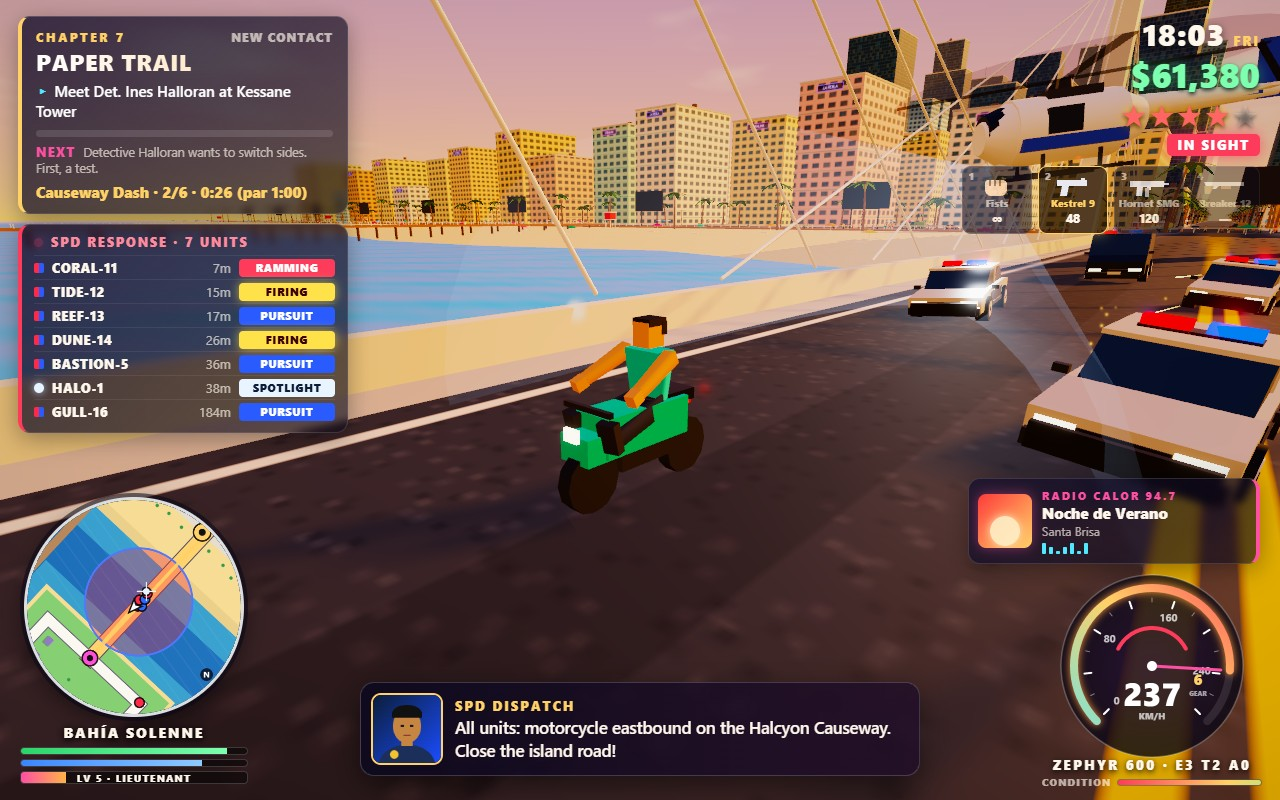
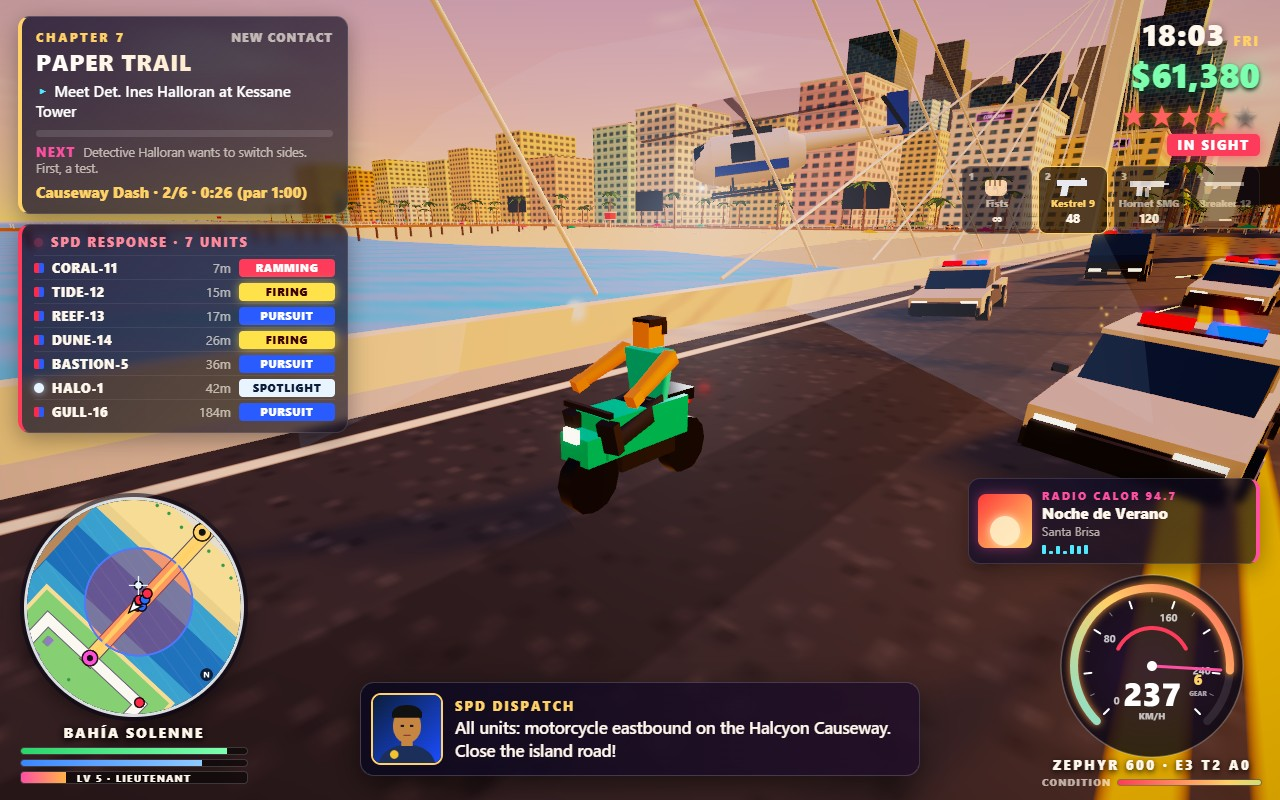
Performance: one mesh per car with masked paint, draw-distance culling for city tiles and signs
Vehicles drop from five draw calls to two (headlight beams only after dusk), far cars are
not drawn and only near ones cast shadows; clutter, posts, roof units, signs and billboards
fade out by distance. Draw calls per shot 359/549/671/406 -> 293/399/332/325; triangles
~1.04M -> 217K-291K. Causeway shot: HALO-1 in clear sky.

diff --git a/game/src/vehicles/vehicleModels.js b/game/src/vehicles/vehicleModels.js
@@ -1,7 +1,8 @@
 // Low-poly vehicle meshes. A car body is a side profile extruded across its width; the
 // greenhouse glass is a slightly wider inset profile; bumpers, grilles, mirrors, lamps and
-// wheels are boxes and cylinders. Geometry is built once per body type and shared; each car
-// only owns its paint material.
+// wheels are boxes and cylinders. Geometry is built once per body type and shared: body, glass,
+// trim, livery and wheels are one merged mesh whose `paintMask` vertices take the car's own paint
+// colour, so a car costs two draw calls (solid and lamps). Each car only owns its paint material.
 import * as THREE from 'three';
 import { MeshBuilder } from '../render/meshBuilder.js';
 
@@ -152,9 +153,50 @@ export function vehicleGeometry(def) {
     if (def.body === 'sports') trim.addBox(0, 1.0, rear + 0.2, W * 0.9, 0.06, 0.35, 0x111111); // spoiler
     addWheels(wheels, def, def.body === 'van' ? 0.42 : 0.38);
   }
-  const set = { paint: paint.build(), trim: trim.build(), lights: lights.build(), wheels: wheels.build() };
+  if (def.police && def.body === 'police') {
+    // dark doors and bonnet panel for the black-and-white livery
+    trim.addBox(0, 0.62, -0.1, def.width + 0.03, 0.42, 2.0, 0x0b1d3a);
+  }
+  const set = { solid: mergeWithMask([[paint, 1], [trim, 0], [wheels, 0]]), lights: lights.build() };
   cache.set(key, set);
   return set;
+}
+
+/** Merge builders into one geometry with a per-vertex paint mask (1 = takes the paint colour). */
+function mergeWithMask(parts) {
+  const geos = parts.map(([b]) => b.build());
+  const total = geos.reduce((n, g) => n + g.attributes.position.count, 0);
+  const out = new THREE.BufferGeometry();
+  for (const [name, size] of [['position', 3], ['normal', 3], ['uv', 2], ['color', 3]]) {
+    const arr = new Float32Array(total * size);
+    let at = 0;
+    for (const g of geos) { arr.set(g.attributes[name].array, at); at += g.attributes[name].array.length; }
+    out.setAttribute(name, new THREE.BufferAttribute(arr, size));
+  }
+  const mask = new Float32Array(total);
+  let at = 0;
+  geos.forEach((g, i) => { mask.fill(parts[i][1], at, at + g.attributes.position.count); at += g.attributes.position.count; });
+  out.setAttribute('paintMask', new THREE.BufferAttribute(mask, 1));
+  out.computeBoundingSphere();
+  for (const g of geos) g.dispose();
+  return out;
+}
+
+/** Paint material: masked vertices are tinted by `color` and glossy, the rest keep their own colour. */
+function paintMaterial(paintColor) {
+  const m = new THREE.MeshStandardMaterial({ color: paintColor, vertexColors: true, roughness: 0.28, metalness: 0.5, envMapIntensity: 1.1 });
+  m.onBeforeCompile = (shader) => {
+    shader.vertexShader = shader.vertexShader
+      .replace('#include <common>', '#include <common>\nattribute float paintMask;\nvarying float vPaintMask;')
+      .replace('#include <begin_vertex>', '#include <begin_vertex>\nvPaintMask = paintMask;');
+    shader.fragmentShader = shader.fragmentShader
+      .replace('#include <common>', '#include <common>\nvarying float vPaintMask;')
+      .replace('vec4 diffuseColor = vec4( diffuse, opacity );', 'vec4 diffuseColor = vec4( mix( vec3( 1.0 ), diffuse, vPaintMask ), opacity );')
+      .replace('float roughnessFactor = roughness;', 'float roughnessFactor = mix( 0.38, roughness, vPaintMask );')
+      .replace('float metalnessFactor = metalness;', 'float metalnessFactor = mix( 0.35, metalness, vPaintMask );');
+  };
+  m.customProgramCacheKey = () => 'vehicle-paint';
+  return m;
 }
 
 const shared = {};
@@ -173,19 +215,12 @@ export function createVehicleMesh(def, paintColor) {
   const geo = vehicleGeometry(def);
   const mats = sharedMaterials();
   const group = new THREE.Group();
-  const paintMat = new THREE.MeshStandardMaterial({ color: paintColor, roughness: 0.28, metalness: 0.55, envMapIntensity: 1.2 });
-  const body = new THREE.Mesh(geo.paint, paintMat);
-  const trim = new THREE.Mesh(geo.trim, mats.trim);
+  const paintMat = paintMaterial(paintColor);
+  const body = new THREE.Mesh(geo.solid, paintMat);
   const lights = new THREE.Mesh(geo.lights, mats.lights);
-  const wheels = new THREE.Mesh(geo.wheels, mats.wheels);
-  body.castShadow = trim.castShadow = wheels.castShadow = true;
-  group.add(body, trim, lights, wheels);
-  if (def.police && def.body === 'police') {
-    // dark doors and bonnet panel for the black-and-white livery
-    const decal = new THREE.Mesh(new THREE.BoxGeometry(def.width + 0.03, 0.42, 2.0), mats.policeDecal);
-    decal.position.set(0, 0.62, -0.1);
-    group.add(decal);
-  }
+  body.castShadow = true;
+  group.add(body, lights);
   group.userData.paint = paintMat;
+  group.userData.body = body;
   return group;
 }

diff --git a/game/src/world/streetProps.js b/game/src/world/streetProps.js
@@ -132,16 +132,16 @@ export class StreetProps {
   /** Turn everything collected into meshes. Returns the group plus materials that react to night. */
   build() {
     const group = new THREE.Group();
-    const trunk = this.trunks.buildTiles(new THREE.MeshStandardMaterial({ vertexColors: true, roughness: 0.95 }), { castShadow: true });
+    const trunk = this.trunks.buildTiles(new THREE.MeshStandardMaterial({ vertexColors: true, roughness: 0.95 }), { castShadow: true, cullDistance: 650 });
     const leafMat = new THREE.MeshStandardMaterial({
       map: palmLeafTexture(), vertexColors: true, alphaTest: 0.45, side: THREE.DoubleSide, roughness: 0.9,
     });
-    const leaves = this.leaves.buildTiles(leafMat, { castShadow: true });
-    const posts = this.posts.buildTiles(new THREE.MeshStandardMaterial({ vertexColors: true, roughness: 0.55, metalness: 0.4 }), { castShadow: true });
+    const leaves = this.leaves.buildTiles(leafMat, { castShadow: true, cullDistance: 650 });
+    const posts = this.posts.buildTiles(new THREE.MeshStandardMaterial({ vertexColors: true, roughness: 0.55, metalness: 0.4 }), { castShadow: true, cullDistance: 320 });
     this.poolMaterial = new THREE.MeshBasicMaterial({
       map: glowTexture(), vertexColors: true, transparent: true, opacity: 0, blending: THREE.AdditiveBlending, depthWrite: false,
     });
-    const pools = this.pools.buildTiles(this.poolMaterial);
+    const pools = this.pools.buildTiles(this.poolMaterial, { cullDistance: 320 });
     for (const m of pools.children) m.renderOrder = 2;
     group.add(trunk, leaves, posts, pools);
 
@@ -151,6 +151,7 @@ export class StreetProps {
       mesh.scale.set(b.width, b.h, 1);
       mesh.position.set(b.x, b.y, b.z);
       mesh.rotation.y = b.yaw;
+      mesh.userData.cullDistance = 520;
       group.add(mesh);
       (this.billboardMaterials ||= []).push(mesh.material);
     }
@@ -159,6 +160,7 @@ export class StreetProps {
       mesh.scale.set(s.width, s.width / 4, 1);
       mesh.position.set(s.x + Math.sin(s.yaw) * 0.4, s.y, s.z + Math.cos(s.yaw) * 0.4);
       mesh.rotation.y = s.yaw;
+      mesh.userData.cullDistance = 280;
       group.add(mesh);
       (this.neonMaterials ||= []).push(mesh.material);
     }
@@ -170,6 +172,7 @@ export class StreetProps {
         mesh.scale.set(s.length, s.length / 4, 1);
         mesh.position.set(s.x + Math.sin(s.yaw) * 1.4, s.y, s.z + Math.cos(s.yaw) * 1.4);
         mesh.rotation.set(0, s.yaw + Math.PI / 2 + flip, Math.PI / 2, 'YXZ');
+        mesh.userData.cullDistance = 240;
         group.add(mesh);
       }
       (this.neonMaterials ||= []).push(material);

diff --git a/game/src/world/cityGenerator.js b/game/src/world/cityGenerator.js
@@ -38,7 +38,7 @@ export class CityGenerator {
   }
 
   chunkBuilder(style, x, z) {
-    const key = `${style}:${Math.floor(x / CITY_TILE)}:${Math.floor(z / CITY_TILE)}`;
+    const key = `${style}:${Math.floor(x / (CITY_TILE * 2))}:${Math.floor(z / (CITY_TILE * 2))}`;
     if (!this.chunks.has(key)) this.chunks.set(key, { style, builder: new MeshBuilder() });
     return this.chunks.get(key).builder;
   }
@@ -350,12 +350,12 @@ export class CityGenerator {
       mesh.receiveShadow = true;
       group.add(mesh);
     }
-    group.add(this.base.buildTiles(new THREE.MeshStandardMaterial({ map: sidewalkTexture(), roughness: 0.9 }), { receiveShadow: true }));
+    group.add(this.base.buildTiles(new THREE.MeshStandardMaterial({ map: sidewalkTexture(), roughness: 0.9 }), { receiveShadow: true, cullDistance: 700 }));
     for (const [kind, builder] of Object.entries(this.lots)) {
       if (!builder.vertexCount) continue;
-      group.add(builder.buildTiles(new THREE.MeshStandardMaterial({ map: groundTexture(kind), roughness: 0.95 }), { receiveShadow: true }));
+      group.add(builder.buildTiles(new THREE.MeshStandardMaterial({ map: groundTexture(kind), roughness: 0.95 }), { receiveShadow: true, cullDistance: 450 }));
     }
-    group.add(this.detail.buildTiles(new THREE.MeshStandardMaterial({ vertexColors: true, roughness: 0.75 }), { castShadow: true, receiveShadow: true }));
+    group.add(this.detail.buildTiles(new THREE.MeshStandardMaterial({ vertexColors: true, roughness: 0.75 }), { castShadow: true, receiveShadow: true, cullDistance: 380 }));
     return group;
   }
 

diff --git a/game/src/vehicles/vehicleManager.js b/game/src/vehicles/vehicleManager.js
@@ -9,6 +9,8 @@ import { VehicleBody, stepVehicle, collideVehicles } from './vehiclePhysics.js';
 import { glowTexture } from '../render/proceduralTextures.js';
 
 let nextId = 1;
+const DRAW_DISTANCE = 330;
+const SHADOW_DISTANCE = 80;
 
 export class VehicleManager {
   constructor(game) {
@@ -31,6 +33,7 @@ export class VehicleManager {
       beam.position.set(0, 0.08, def.length / 2 + 8);
       beam.renderOrder = 3;
       mesh.add(beam);
+      mesh.userData.beam = beam;
     }
     this.group.add(mesh);
     const v = {
@@ -146,10 +149,15 @@ export class VehicleManager {
   /** Light halos for every vehicle near the camera. */
   pushGlows(glow, camPos, night, clock) {
     this.beamMaterial.opacity = night * 0.2;
+    const beams = night > 0.05;
     for (const v of this.list) {
       const b = v.body;
-      if (v.dead) continue;
       const d2 = (b.x - camPos.x) ** 2 + (b.z - camPos.z) ** 2;
+      // distance culling: far cars are not drawn, and only nearby ones cast shadows
+      v.mesh.visible = d2 < DRAW_DISTANCE * DRAW_DISTANCE;
+      v.mesh.userData.body.castShadow = d2 < SHADOW_DISTANCE * SHADOW_DISTANCE;
+      if (v.mesh.userData.beam) v.mesh.userData.beam.visible = beams && d2 < 120 * 120;
+      if (v.dead) continue;
       if (d2 > 260 * 260) continue;
       const s = Math.sin(b.heading), c = Math.cos(b.heading);
       const half = v.def.length / 2;

diff --git a/game/src/core/game.js b/game/src/core/game.js
@@ -14,6 +14,7 @@ import { GlowPoints } from '../render/glowPoints.js';
 import { PostEffects } from '../render/postEffects.js';
 import { ParticleEffects } from '../render/particleEffects.js';
 import { CameraRig } from '../render/cameraRig.js';
+import { DistanceCuller } from '../render/distanceCuller.js';
 import { CollisionGrid } from '../world/collisionGrid.js';
 import { RoadNetwork } from '../world/roadNetwork.js';
 import { StreetProps } from '../world/streetProps.js';
@@ -107,6 +108,8 @@ export class Game {
     this.clutter = new SidewalkClutter({ glow: this.staticGlow, rng: createRandom(this.seed + 23) });
     this.scene.add(this.clutter.build());
     this.staticGlow.commit();
+    this.culler = new DistanceCuller();
+    this.culler.collect(this.scene);
     this.pmrem = new THREE.PMREMGenerator(this.renderer);
     this.envHour = -10;
   }
@@ -384,6 +387,7 @@ export class Game {
     }
     const focus = this.running ? { x: this.player.x, z: this.player.z } : { x: 250, z: -250 };
     this.sky.follow(focus, this.camera, this.clock);
+    this.culler.update(this.camera);
     this.water.update(this.clock, this.sky, this.scene.fog);
     this.dynamicGlow.clear();
     this.vehicles.pushGlows(this.dynamicGlow, this.camera.position, this.sky.night, this.clock);

diff --git a/game/src/render/distanceCuller.js b/game/src/render/distanceCuller.js
@@ -1,0 +1,31 @@
+// Draw-distance culling for the tiled static city. Every tile mesh built with a `cullDistance`
+// is hidden once its nearest edge is further than that from the camera, so street clutter,
+// lamp posts and rooftop units vanish at range while facades and palms stay on the skyline.
+// The camera frustum and the sun's shadow frustum do the rest.
+
+export class DistanceCuller {
+  constructor() {
+    this.items = [];
+  }
+
+  /** Collect every mesh under `root` that carries userData.cullDistance. */
+  collect(root) {
+    root.updateMatrixWorld(true);
+    root.traverse((o) => {
+      if (!o.isMesh || !o.userData.cullDistance) return;
+      if (!o.geometry.boundingSphere) o.geometry.computeBoundingSphere();
+      const s = o.geometry.boundingSphere;
+      const c = s.center.clone().applyMatrix4(o.matrixWorld);
+      const r = s.radius * o.matrixWorld.getMaxScaleOnAxis();
+      this.items.push({ mesh: o, x: c.x, z: c.z, r, far: o.userData.cullDistance });
+    });
+  }
+
+  update(camera) {
+    const cx = camera.position.x, cz = camera.position.z;
+    for (const it of this.items) {
+      const d = Math.hypot(it.x - cx, it.z - cz) - it.r;
+      it.mesh.visible = d < it.far;
+    }
+  }
+}

diff --git a/game/src/render/meshBuilder.js b/game/src/render/meshBuilder.js
@@ -106,7 +106,7 @@ export class MeshBuilder {
   }
 
   /** One mesh per tile (plus one for untiled shapes), sharing `material`. */
-  buildTiles(material, { castShadow = false, receiveShadow = false } = {}) {
+  buildTiles(material, { castShadow = false, receiveShadow = false, cullDistance = 0 } = {}) {
     const group = new THREE.Group();
     for (const b of [this.whole, ...this.buckets.values()]) {
       if (!b.pos.length) continue;
@@ -114,6 +114,7 @@ export class MeshBuilder {
       mesh.castShadow = castShadow;
       mesh.receiveShadow = receiveShadow;
       mesh.matrixAutoUpdate = false;
+      if (cullDistance) mesh.userData.cullDistance = cullDistance;
       group.add(mesh);
     }
     return group;

diff --git a/game/src/world/sidewalkClutter.js b/game/src/world/sidewalkClutter.js
@@ -64,7 +64,7 @@ export class SidewalkClutter {
         });
       }
     }
-    return this.b.buildTiles(new THREE.MeshStandardMaterial({ vertexColors: true, roughness: 0.7, metalness: 0.1 }), { castShadow: true, receiveShadow: true });
+    return this.b.buildTiles(new THREE.MeshStandardMaterial({ vertexColors: true, roughness: 0.7, metalness: 0.1 }), { castShadow: true, receiveShadow: true, cullDistance: 300 });
   }
 
   place(kind, x, z, yaw) {

diff --git a/game/src/shots/screenshotDirector.js b/game/src/shots/screenshotDirector.js
@@ -322,7 +322,7 @@ const SCENES = {
       game.step(STEP);
     }
     pack.forEach((u, k) => { u.status = slots[k][3]; });
-    heli.x = pb.x - 38; heli.z = pb.z + 3; heli.y = 8.5; heli.heading = Math.PI / 2 - 0.9;
+    heli.x = pb.x - 36; heli.z = pb.z + 22; heli.y = 8; heli.heading = Math.PI / 2 - 0.9;
     heli.aim.set(pb.x - 1, 0, pb.z);
     heli.update(0, { x: pb.x, z: pb.z });
     game.player.seatRider(bike);
